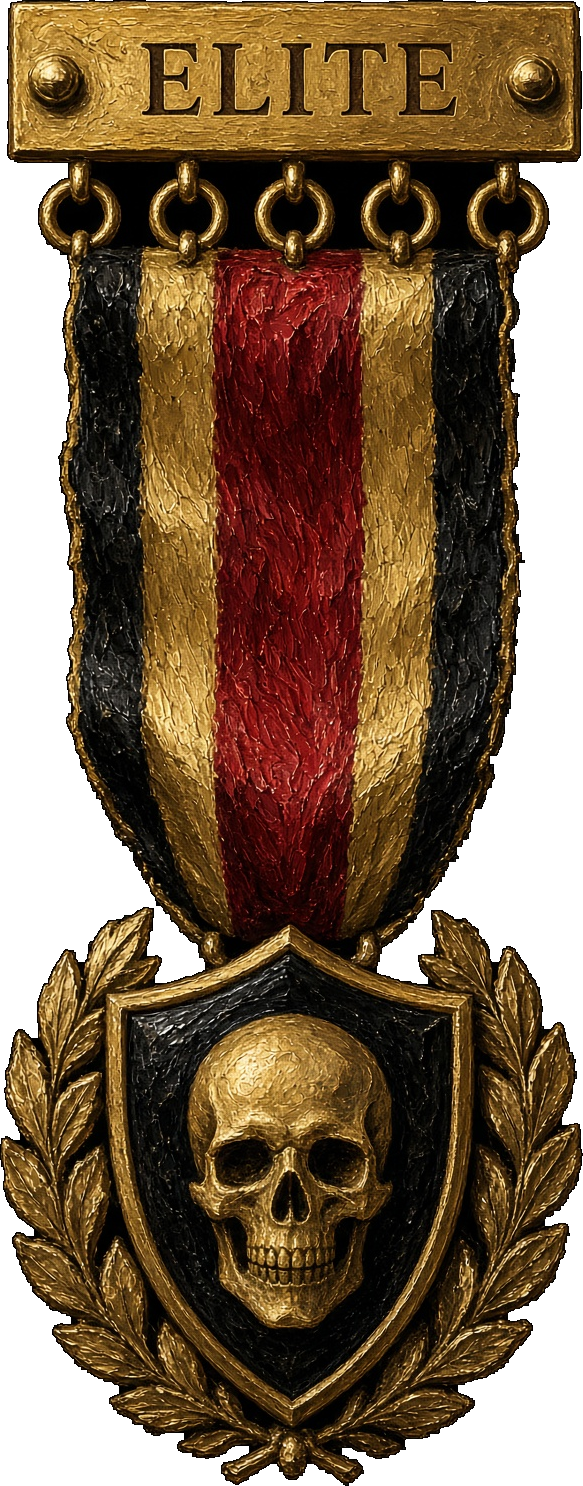
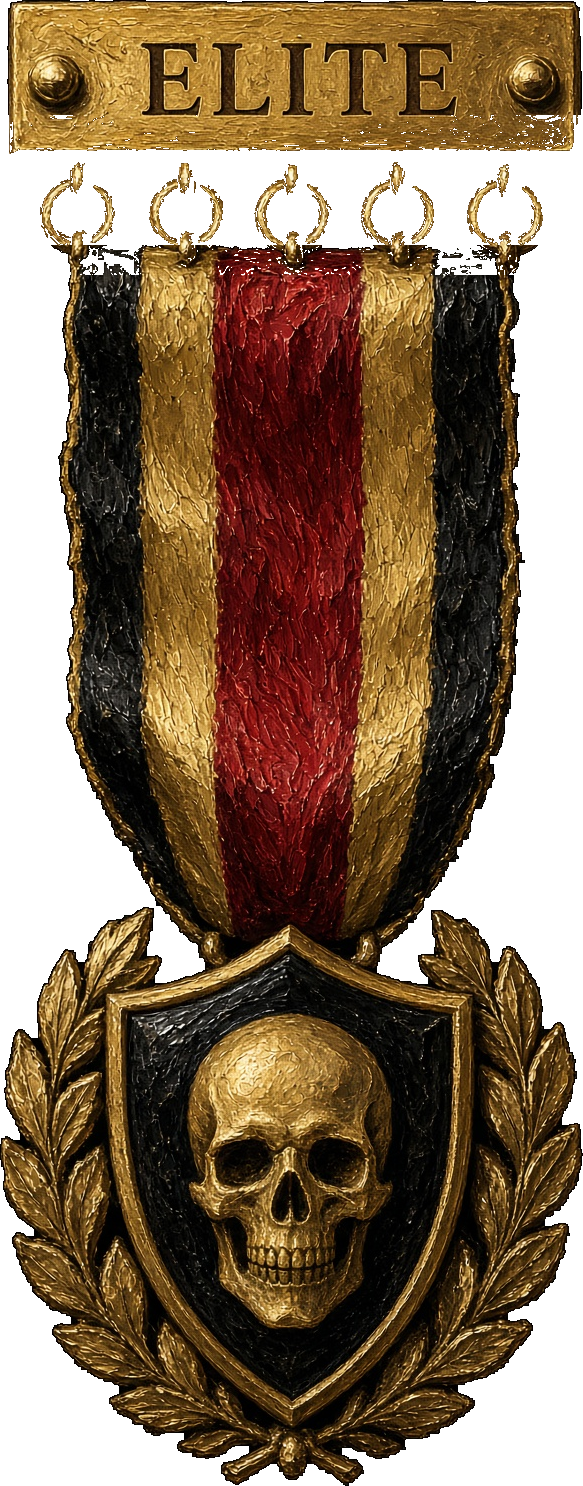
alpha40b: Elite-Orden transparent, volle Textbox, Tag-Leiste immer
Orden-Ringe und Fläche zwischen Spange/Band durchsichtig; Elite-Panel
volle Breite mit Text-Einzug; Tag-Balken auch ohne Chips. Cache divcmd-alpha40b.

Changed region(s): [[0.0, 0.0619, 1.0, 0.1857]]

diff --git a/scripts/test_graphics.js b/scripts/test_graphics.js
@@ -33,7 +33,7 @@ for(const r of records.filter(r=>r.ready && r.type!=='Token')){
 const unfinished=records.find(r=>r.provenance==='missing_illustration');if(unfinished)assert(collection.get(unfinished.id).querySelector('.card-ph'));
 // The source model remains unchanged: presentation manifest alone retires a placeholder.
 assert.equal(c.art_status,'platzhalter');assert(!c.image);
-const html=fs.readFileSync(path.join(WEB,'index.html'),'utf8');assert(html.indexOf('js/data/card-faces.js')>html.indexOf('js/data/catalog.js'));assert(html.indexOf('js/data/card-faces.js')<html.indexOf('js/ui/app.js'));assert(html.includes('app.js?v=alpha40'));
-assert(fs.readFileSync(path.join(WEB,'sw.js'),'utf8').includes('divcmd-alpha40'));
+const html=fs.readFileSync(path.join(WEB,'index.html'),'utf8');assert(html.indexOf('js/data/card-faces.js')>html.indexOf('js/data/catalog.js'));assert(html.indexOf('js/data/card-faces.js')<html.indexOf('js/ui/app.js'));assert(html.includes('app.js?v=alpha40b'));
+assert(fs.readFileSync(path.join(WEB,'sw.js'),'utf8').includes('divcmd-alpha40b'));
 console.log('PASS graphics UI: ready-only routing; full-resolution hand/slot/inspect/collection/deckbuilder; hidden privacy; no unfinished artwork relabelled; rule records unchanged');
 h.dom.window.close();

diff --git a/scripts/test_table_stencil.js b/scripts/test_table_stencil.js
@@ -10,7 +10,7 @@ const tex = fs.readFileSync(path.join(WEB, 'assets/table/stencil-oil.webp'));
 assert(tex.slice(0, 4).toString() === 'RIFF' && tex.slice(8, 12).toString() === 'WEBP' && tex.length > 50000, 'Öltextur vorhanden');
 for (const m of css.matchAll(/url\(\.\.\/([^)]+)\)/g)) assert(fs.existsSync(path.join(WEB, m[1])), '404: ' + m[1]);
 assert(/table-stencil\.js\?v=/.test(fs.readFileSync(path.join(WEB, 'index.html'), 'utf8')));
-assert(/const CACHE = 'divcmd-alpha40'/.test(fs.readFileSync(path.join(WEB, 'sw.js'), 'utf8')));
+assert(/const CACHE = 'divcmd-alpha40b'/.test(fs.readFileSync(path.join(WEB, 'sw.js'), 'utf8')));
 // z-Reihenfolge: Gemälde -3 < Licht -2 < Schablone -1 < Karten (auto)
 const z = sel => Number(css.match(new RegExp(sel.replace(/[.>]/g, m => '\\' + m) + ' \\{[^}]*z-index: (-?\\d+)'))[1]);
 assert(z('.cam-world > .ot-desk') < z('.cam-world > .ot-slotlight') && z('.cam-world > .ot-slotlight') < z('.cam-world > .ot-stencil') && z('.cam-world > .ot-stencil') < 0, 'Schichtfolge');

diff --git a/scripts/test_officer_table.js b/scripts/test_officer_table.js
@@ -62,7 +62,7 @@ assert(new Set(durs.match(/[\d.]+s/g)).size >= 5, 'mehrere unterschiedliche Anim
 assert(/at 74\.9% 35\.2%/.test(css), 'Licht vom Lampenstandort');
 const html = fs.readFileSync(path.join(WEB, 'index.html'), 'utf8');
 assert(/css\/officer-table\.css\?v=/.test(html), 'officer-table.css eingebunden');
-assert(/const CACHE = 'divcmd-alpha40'/.test(fs.readFileSync(path.join(WEB, 'sw.js'), 'utf8')), 'SW-Cache angehoben');
+assert(/const CACHE = 'divcmd-alpha40b'/.test(fs.readFileSync(path.join(WEB, 'sw.js'), 'utf8')), 'SW-Cache angehoben');
 assert(/prefers-reduced-motion: reduce\)\s*\{[^}]*\.ot-glow[^}]*animation: none/.test(css), 'Media-Query stoppt Flackern');
 assert(/data-flicker="off"\] \.ot-glow, \.cam-viewport\[data-flicker="off"\] \.ot-glint/.test(css), 'JS-Flag stoppt Flackern');
 assert(/\.ot-desk \{\s*position: absolute; z-index: -3; pointer-events: none/.test(css) && /\.ot-desk > div \{[^}]*pointer-events: none/.test(css), 'Bild/Licht nie klickbar');

diff --git a/Division_Command_0.5a/web/index.html b/Division_Command_0.5a/web/index.html
@@ -772,7 +772,7 @@
   <script src="js/ui/table-stencil.js?v=sc4"></script>
   <script src="js/ui/table-camera.js?v=st1"></script>
   <script src="js/ui/end-screen.js?v=1"></script>
-  <script src="js/ui/app.js?v=alpha40"></script>
+  <script src="js/ui/app.js?v=alpha40b"></script>
   <script src="js/ui/audio-feedback.js?v=1"></script>
   <script src="js/ui/audio-options.js?v=1"></script>
   <script src="js/ui/hand-drag.js?v=handzoom2"></script>

diff --git a/Division_Command_0.5a/web/sw.js b/Division_Command_0.5a/web/sw.js
@@ -1,4 +1,4 @@
-const CACHE = 'divcmd-alpha40';
+const CACHE = 'divcmd-alpha40b';
 const ASSETS = [
   './',
   './index.html',

diff --git a/KartenEditor/tools/render_core.py b/KartenEditor/tools/render_core.py
@@ -444,15 +444,19 @@ def render(card, art_file, dest, number="001", native=True, metal="gold", panel=
 
     tags = gameplay_tags(card)
     name_bot = ny + 128
-    if typ != "Doktrin" and tags:
-        ty = name_bot + TAG_GAP
-        text_top = draw_tag_banners(d, ty, tags, W) + TAG_GAP
-    elif typ == "Doktrin":
+    if typ == "Doktrin":
         text_top = 644
     else:
-        text_top = name_bot + 16
+        # Tag-Leiste immer reservieren (auch ohne Chips), damit Layout/Elite-Spange sitzen
+        ty = name_bot + TAG_GAP
+        # dezenter durchgehender Balken hinter den Chips
+        bar = (70, ty, W - 70, ty + 56)
+        d.rounded_rectangle(bar, radius=8, fill=(18, 12, 8), outline=GOLD, width=2)
+        if tags:
+            draw_tag_banners(d, ty, tags, W)
+        text_top = ty + 56 + TAG_GAP
 
-    tx0, ty0, tx1 = 78, text_top, W - 78
+    tx0, ty0, tx1 = 78, text_top, W - 78  # Panel immer volle Breite
     ty1 = 1890 if show_stats else 1988
     later = typ in ("Unterstützung", "Soforteinsatz", "Ausrüstung")
     ink, head_c, flav = (236, 224, 196), accent, (196, 168, 110)
@@ -478,21 +482,16 @@ def render(card, art_file, dest, number="001", native=True, metal="gold", panel=
         return font(FONT_R, 36), font(FONT_B, 38), 46, 44, 36, False
     blocks_pre = abilities(card.get("text") or "")
     flavor = (card.get("flavor") or "").strip()
-    # Elite medal: narrow text panel so orden never covers body text
+    # Elite: Panel volle Breite; nur Textumbruch rechts einziehen (Orden hängt darüber)
     elite = card_is_elite(card) and typ != "Doktrin"
-    medal_inset = 0
-    if elite:
-        # matches paste_elite_order scaled width (~259) + left gap + right frame pad
-        medal_inset = 270  # elite-orden scaled width + gap; keeps text clear of medal
-    tx1_text = (W - 78) - medal_inset
-    inner_for_fit = max(200, tx1_text - 78 - 72)
+    medal_inset = 270 if elite else 0
+    text_right = tx1 - medal_inset  # wrap boundary; panel box stays tx1
+    inner_for_fit = max(200, text_right - tx0 - 72)
     body, head, BODY_LH, HEAD_LH, _bp, keep_flavor = _fit_fonts(
         blocks_pre, inner_for_fit, (1890 if show_stats else 1988) - text_top, bool(flavor))
     if not keep_flavor:
         flavor = ""
     ff = font(FONT_I, 36)
-    if elite:
-        tx1 = tx1_text
 
     if typ == "Doktrin":
         # Bollwerk-style: continuous parchment/leather body under crest (no art), ability plaques on top
@@ -519,16 +518,17 @@ def render(card, art_file, dest, number="001", native=True, metal="gold", panel=
                 ty += BODY_LH
             y = y + hh + 24
     elif not later:
-        box = make_panel(panel, (tx1 - tx0, ty1 - ty0))
+        box = make_panel(panel, (tx1 - tx0, ty1 - ty0))  # volle Breite inkl. Elite
         stock.paste(box, (tx0, ty0))
         d = ImageDraw.Draw(stock)
         d.rectangle((tx0, ty0, tx1, ty1), outline=GOLD, width=3)
         y = ty0 + 48
+        wrap_w = text_right - tx0 - 72
         for title, rest in blocks_pre:
             if title:
                 d.text((tx0 + 36, y), title, font=head, fill=head_c)
                 y += HEAD_LH
-            for ln in wrap(d, rest, body, tx1 - tx0 - 72):
+            for ln in wrap(d, rest, body, wrap_w):
                 d.text((tx0 + 36, y), ln, font=body, fill=ink)
                 y += BODY_LH
             y += 18
@@ -536,8 +536,10 @@ def render(card, art_file, dest, number="001", native=True, metal="gold", panel=
             d.line([(tx0 + 90, ty1 - 118), (tx1 - 90, ty1 - 118)], fill=GOLD, width=2)
             fy = ty1 - 78
             quoted = "„" + flavor + "“"
-            for ln in wrap(d, quoted, ff, tx1 - tx0 - 80)[:2]:
-                d.text((W / 2, fy), ln, font=ff, fill=flav, anchor="mm")
+            # Flavor in der Textspalte zentrieren (links vom Orden)
+            flav_cx = (tx0 + text_right) / 2
+            for ln in wrap(d, quoted, ff, wrap_w)[:2]:
+                d.text((flav_cx, fy), ln, font=ff, fill=flav, anchor="mm")
                 fy += 48
 
     if show_stats:

diff --git a/KartenEditor/tools/render.py b/KartenEditor/tools/render.py
@@ -875,11 +875,8 @@ TAG_H = 56
 
 
 def support_text_top(card, after_y=1028):
-    """Textbox sitzt wie bei der Einheit direkt unter Titel/Tags."""
-    tags = gameplay_tags(card)
-    if tags:
-        return int(after_y + TAG_GAP + TAG_H + TAG_GAP)
-    return int(after_y + TEXT_GAP)
+    """Textbox sitzt wie bei der Einheit direkt unter Titel/Tags. Tag-Leiste immer reserviert."""
+    return int(after_y + TAG_GAP + TAG_H + TAG_GAP)
 
 
 def fill_band(img, stock_fn, y0, y1, keep=None):
@@ -900,9 +897,7 @@ def clear_support_well(img, stock_fn=None, y0=1028, y1=None, card=None):
     """Alles zwischen Titel und Textbox ist Typ-Hintergrund, keine Marmor-Restfläche."""
     if y1 is None:
         y1 = support_text_top(card, y0)
-    keep = None
-    if card and gameplay_tags(card):
-        keep = (int(y0 + TAG_GAP), int(y0 + TAG_GAP + TAG_H))
+    keep = (int(y0 + TAG_GAP), int(y0 + TAG_GAP + TAG_H))  # Tag-Leiste immer
     return fill_band(img, stock_fn, y0, y1, keep=keep)
 
 
@@ -921,9 +916,12 @@ def restack_under_art(img, card, stock_fn, art_bottom=910):  # 40% art
     name_plaque(d, "rect", title_y, str((card or {}).get("name") or ""), ww)
     rim = getattr(_mod, "GOLD", GOLD)
     d.rounded_rectangle((70, title_y, ww - 70, title_y + title_h), radius=6, outline=rim, width=5)
+    tag_y = after + TAG_GAP
+    rim = getattr(_mod, "GOLD", GOLD)
+    d.rounded_rectangle((70, tag_y, ww - 70, tag_y + TAG_H), radius=8, fill=(18, 12, 8), outline=rim, width=2)
     tags = gameplay_tags(card)
     if tags:
-        draw_tag_banners(d, after + TAG_GAP, tags, ww)
+        draw_tag_banners(d, tag_y, tags, ww)
     return rgb, ty0, title_y, title_h
 
 
@@ -1083,9 +1081,11 @@ def finish_sofort(img, card, edition="ALPHA", number="001", footer_star=False):
     ty0 = support_text_top(card, art_y1)
     img = clear_support_well(img, burnt_stock, art_y1, ty0, card)
     d = ImageDraw.Draw(img)
+    tag_y = art_y1 + TAG_GAP
+    d.rounded_rectangle((70, tag_y, ww - 70, tag_y + TAG_H), radius=8, fill=(18, 12, 8), outline=rim, width=2)
     tags = gameplay_tags(card)
     if tags:
-        draw_tag_banners(d, art_y1 + TAG_GAP, tags, ww)
+        draw_tag_banners(d, tag_y, tags, ww)
     ww, hh = img.size
     tx0, tx1, ty1 = 78, ww - 78, 1890
     img = paste_leather_plaque(img, (tx0, ty0, tx1, ty1))

diff --git a/Division_Command_0.5a/docs/technik/KARTEN_RENDER_ALPHA40.md b/Division_Command_0.5a/docs/technik/KARTEN_RENDER_ALPHA40.md
@@ -27,4 +27,10 @@ python3 scripts/graphics/verify.py
 ```
 
 Quellen: `KartenEditor/tools/render.py`, `render_core.py`, `scripts/graphics/alpha40.py`.
-Service-Worker-Cache: `divcmd-alpha40`.
+Service-Worker-Cache: `divcmd-alpha40b`.
+
+## alpha40b
+- Elite: Textpanel volle Breite, Orden darüber; nur Textumbruch rechts eingezogen.
+- Tag-Leiste immer vorhanden (auch ohne Chips).
+- Elite-Orden: Ringinnenräume und Fläche zwischen Spange und Band transparent.
+
